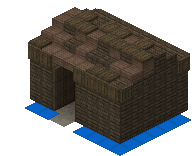
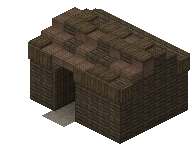
rpgitem css

Changed region(s): [[0.375, 0.7179, 1.0, 1.0], [0.125, 0.641, 0.3125, 0.7692]]

diff --git a/style95.css b/style95.css
@@ -1,45 +1,78 @@
-nyan /* dont touch, its the parent of the Win.raw function */ {}
+nyan /* a workaround. the parent of the Win.raw function. may break some browsers */ {}
 
 .region {
 	display: block;
-	xbackground: grey;
-	xborder: 1px solid lightgray;
-	xpadding: 4px;
+}
+
+.marked {
+	color: red;
 }
 
 .small {
 	width: 300px;
 }
 
-/* <a><p> collapser */
+key {
+    display: inline-block;
+    border: 2px solid white;
+    /* color: black; */
+    border-radius: 3px;
+	margin: -2px 0;
+}
+
+/* begin of <a><div> */
 
 a.foo {
 	display: block;
 	margin-bottom: 1px;
-	xbackground: rgba(53, 53, 53, 0.5);
 	text-decoration: none;
 	cursor: pointer;
 }
 
-a.foo > span {
-	float: right;
-	margin-right: 2em;
-}
-
-a.foo > span:after {
-	content: "⇒"; } /* ⇒ ⮩ */
-a.foo.toggle > span:after { /* ⇓ ⮯ */
-	content: "⇓";}
-
-
-p.bar {
+div.bar {
 	display: none;
 	margin: 0;
-	xbackground: gray;
+	margin-left: 1em;
 }
 
-p.bar.toggle {
+a.foo > span {
+	float: right; }
+
+a.foo > span:after {
+	content: "+"; } /* \2192 */
+
+a.foo.toggle > span:after {
+	content: "-";} /* \2193 */
+
+div.bar.toggle {
 	display: block;
 }
 
-/* woo */
+/* end of <a><div> */
+
+/* begin of <div><span><span> */
+
+/* https://www.springhole.net/writing_roleplaying_randomators/magicitemgenerator2.htm */
+
+div.rpgitem {
+	display: inline-block;
+	border: 1px solid white;
+}
+
+div.rpgitem > span:first-child {
+	display: block;
+	color: purple;
+	background-color: palegoldenrod;
+	font-style: italic;
+}
+
+div.rpgitem > span:nth-child(2) {
+	display: block;
+	background: white;
+	color: black;
+	padding: 1px 3px;
+	font-size: 1em;
+}
+
+/* end of <div><span><span> */
+

diff --git a/src/Nieuw mapje/Rekt.ts b/src/Nieuw mapje/Rekt.ts
@@ -4,9 +4,8 @@ import { Mesh, PlaneBufferGeometry, MeshBasicMaterial, Vector3 } from "three";
 
 class Rekt {
 
-	dont21 = false // use normal coordinates
-	leftBottom = false
-	bottomCenter = true
+	noDimetricization = false
+	middleBottom = true
 	dontOrder = false
 
 	readonly struct: {
@@ -25,13 +24,15 @@ class Rekt {
 	material: MeshBasicMaterial
 	geometry: PlaneBufferGeometry
 
-	posCalc: Vector3
+	pos: Zxc
+	center: Zx
 
 	constructor(struct: Rekt.Struct) {
 
 		this.struct = struct;
 
-		this.posCalc = new Vector3;
+		this.pos = [0, 0, 0];
+		this.center = [0, 0];
 
 		if (this.struct.opacity == undefined) this.struct.opacity = 1;
 	}
@@ -81,7 +82,7 @@ class Rekt {
 
 		let x, y;
 
-		if (this.dont21) {
+		if (this.noDimetricization) {
 			x = p[0];
 			y = p[1];
 			if (ox) x += ox;
@@ -91,31 +92,23 @@ class Rekt {
 			x = p[0] / 2 + p[1] / 2;
 			y = p[1] / 4 - p[0] / 4;
 
+			this.center = [x, y];
+
+			if (this.middleBottom) {
+				let w = d[0] / 2;
+				let h = d[1] / 2;
+				
+				y += h;
+			}
+
 			if (!this.dontOrder)
-			this.mesh.renderOrder = -y;
+				this.mesh.renderOrder = -p[1] + p[0];
 
-			if (this.bottomCenter) {
-				let w = d[0] / 2;
-				let h = d[1] / 2;
-
-				//x += w;
-				y += h;
-			}
-
-			else if (this.leftBottom) {
-				let w = d[0] / 2;
-				let h = d[1] / 2;
-
-				x += w;
-				y += h;
-			}
 		}
 
-		this.posCalc.set(x, y, 0);
+		this.pos = [x, y, 0];
 
-		//console.log('posCalc '+this.posCalc.x+' '+this.posCalc.y);
-
-		this.mesh.position.copy(this.posCalc);
+		this.mesh.position.fromArray(this.pos);
 	}
 }
 

diff --git a/src/Egyt.ts b/src/Egyt.ts
@@ -89,15 +89,53 @@ export namespace Egyt {
 
 		Win.init();
 
-		Win.raw(`<div>A webgame about lumber, or?</div><br />`);
-
 		Win.raw(`
+		<div>A webgame about lumber, or?</div>
+		<br />
 		<div class="region small">
-			<a>Tutorial</a>
-			<p>Pan the view with W,A,S,D. You can zoom using scrollwheel.</p>
+			<a>Tutorial
+			</a>
+			<div>
+				Move the view with <key>W</key> <key>A</key> <key>S</key> <key>D</key>.
+				Scroll to zoom.
+			</div>
 
-			<a>World editing</a>
-			<p>You can plop stuff with some shortcuts. Press T to make a tree, or Y for a test tile. Click to confirm.</p>
+			<a>World editing
+			</a>
+			<div>
+				You can plop objects with these shortcuts.
+				<br/><br/>
+				<key>T</key> tree<br/>
+				<key>Y</key> tile<br/>
+				<br />
+				<key>X</key> delete<br/>
+				<key>Esc</key> cancel<br/>
+			</div>
+
+			<a>Stats
+			</a>
+			<div>
+				<span id="mouseTile"></span>
+			</div>
+
+			<a>Items Corner
+			</a>
+			<div>
+				<div>
+					<span>Coral Orb
+					</span>
+					<span>It used to belong to an elemental spirit. It has the ability to summon rainstorms and it comes from another world.
+					</span>
+				</div>
+
+				<!--<br/><br/>
+				<div>
+					<span>Pocketwatch
+					</span>
+					<span>It's a pocketwatch made of adamantium.  It has the names of its previous owners written upon it and looks poorly made.
+					</span>
+				</div>-->
+			</div>
 		</div>`);
 
 		started = true;

diff --git a/src/Win.ts b/src/Win.ts
@@ -18,14 +18,21 @@ namespace Win {
 	}
 
 	export function rig_charges(nyan: JQuery) {
-		/*
-			<a>collapsable</a>
-			<p>hidden content</p>
-		*/
+		
+		// In Vsc
+		// View -> Toggle Word Wrap
 
-		nyan.find('a').next('p').addClass('bar').prev().addClass('foo').click(function() {	
+		/*
+			An hyperlink and a paragraph form a collapser
+		*/
+		nyan.find('a').next('div').addClass('bar').prev().addClass('foo').click(function() {	
 			$(this).toggleClass("toggle").next('.bar').toggleClass('toggle');
 		}).append('<span>');
+
+		/*
+			A div with two spans is an rpg item.
+		*/
+		nyan.find('div').children().find('span').next('span').parent().addClass('rpgitem');
 	}
 
 	export function init() {

diff --git a/src/Nieuw mapje 2/Map2.ts b/src/Nieuw mapje 2/Map2.ts
@@ -12,12 +12,10 @@ class Map2 {
 
 	mouse: Zxc;
 	mark: Rekt
-	tell: JQuery
 
 	constructor() {
 
 		this.mouse = [0, 0, 0];
-		this.tell = Win.raw('<div>');
 		
 		this.mark = new Rekt({
 			pos: [0, 0, 0],
@@ -51,7 +49,6 @@ class Map2 {
 		let m2 = Zxcvs.clone(p) as Zx;
 		p[0] = m2[0] - m2[1] * 2;
 		p[1] = m2[1] * 2 + m2[0];
-
 		
 		let p2 = [...p] as Zx;
 		Zxcvs.div(p2, Egyt.MAGIC_ED);
@@ -64,7 +61,7 @@ class Map2 {
 		this.mark.struct.pos = [...p2, 0] as Zxc;
 		this.mark.set_pos(0, 0);
 
-		this.tell.text(`mouse at world tile: ${Zxcvs.string(p3)}`);
+		Win.win.find('#mouseTile').text(`World square: ${Zxcvs.string(p3)}`);
 
 	}
 

diff --git a/src/Nieuw mapje 2/DynMap.ts b/src/Nieuw mapje 2/DynMap.ts
@@ -98,7 +98,7 @@ class TileSwab {
 			asset: img
 		});
 
-		this.rekt.dont21 = true; // dont 2:1
+		this.rekt.noDimetricization = true; // dont 2:1
 	}
 
 	spawned: boolean;
@@ -131,7 +131,7 @@ class TileSwab {
 			asset: 'egyt/128'
 		});
 
-		this.wire.dont21 = true; // dont 2:1
+		this.wire.noDimetricization = true; // dont 2:1
 
 		this.wire.initiate();
 
@@ -168,7 +168,7 @@ namespace Hovercraft {
 			asset: 'egyt/iceblock'
 		});
 
-		icecube.dont21 = true;
+		icecube.noDimetricization = true;
 		//icecube.dontFung = true;
 		icecube.initiate();
 		icecube.mesh.renderOrder = 2;

diff --git a/src/Game.ts b/src/Game.ts
@@ -78,7 +78,7 @@ class Game {
 			asset: 'egyt/128'
 		});
 
-		this.frustumRekt.dont21 = true; // dont 2:1
+		this.frustumRekt.noDimetricization = true; // dont 2:1
 
 		this.frustumRekt.initiate();
 		this.frustumRekt.mesh.renderOrder = 9999999;

diff --git a/style2.css b/style2.css
@@ -1,1 +1,8 @@
-/* this file *should* override everything from style95 */
+/* copy paste style95 in here to override it */
+
+key {
+    display: inline-block;
+    border: 2px solid white;
+    border-radius: 3px;
+	margin: -2px 0;
+}
